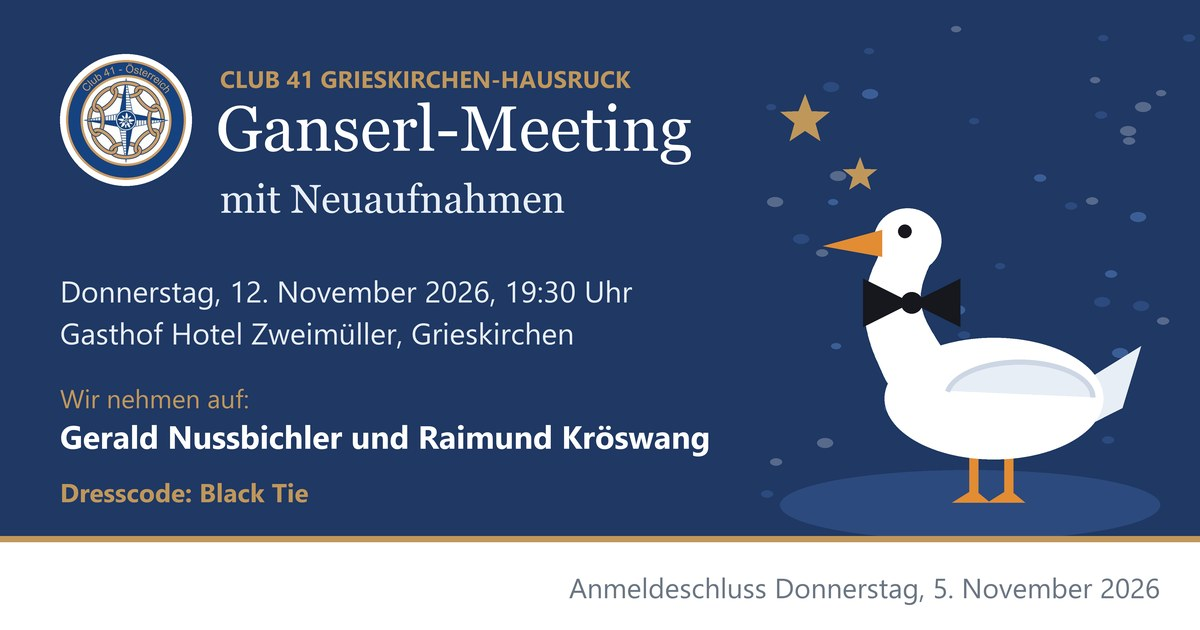
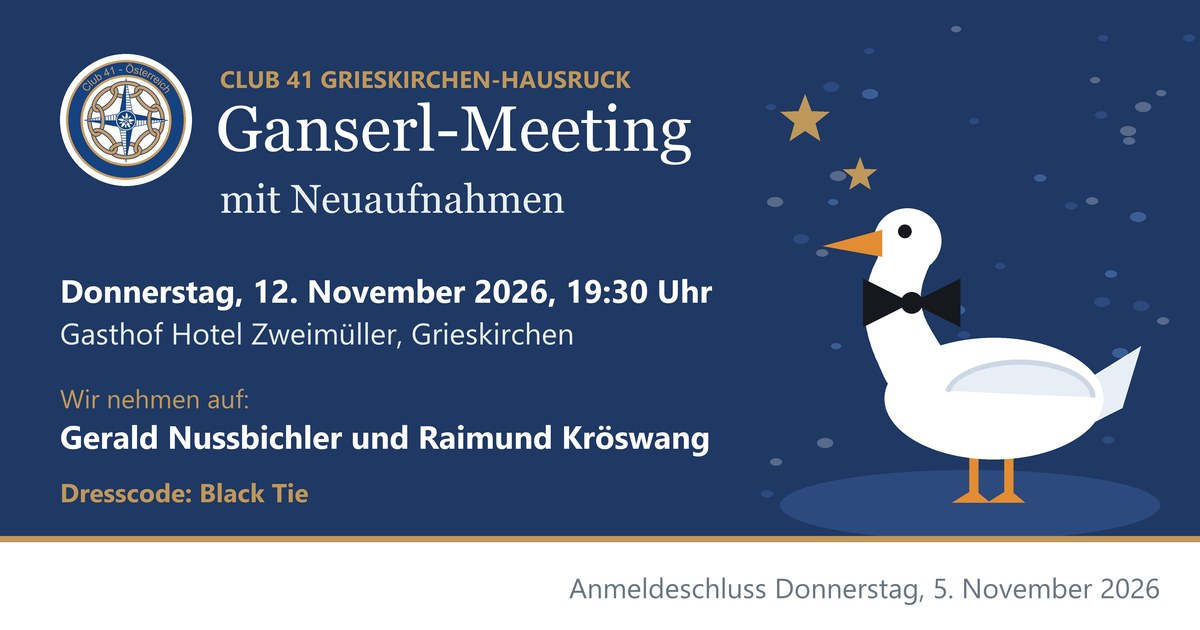
Meetingdatum fett in Bild und Text

Changed region(s): [[0.0308, 0.4222, 0.6167, 0.5127]]

diff --git a/index.html b/index.html
@@ -12,7 +12,7 @@
 <meta property="og:title" content="Ganserl-Meeting mit Neuaufnahmen · Club 41">
 <meta property="og:description" content="Dein persönlicher Anmeldelink für das Ganserl-Meeting am 12. November 2026. Anmeldeschluss 5. November 2026.">
 <meta property="og:url" content="https://hanspeter-meissl.github.io/c41-meetings/">
-<meta property="og:image" content="https://hanspeter-meissl.github.io/c41-meetings/bilder/vorschau.jpg?v=3">
+<meta property="og:image" content="https://hanspeter-meissl.github.io/c41-meetings/bilder/vorschau.jpg?v=4">
 <meta property="og:image:width" content="1200">
 <meta property="og:image:height" content="630">
 <meta property="og:image:alt" content="Ganserl-Meeting mit Neuaufnahmen, 12. November 2026">
@@ -89,8 +89,8 @@
   <div id="einleitung">
   <!-- Auf der Seite das Bild ohne „Jetzt anmelden“, die Auswahl steht direkt darunter. vorschau.jpg mit dem
        Knopf ist nur für die WhatsApp-Vorschau (og:image). -->
-  <img class="titelbild" src="bilder/seite.jpg?v=2" alt="Ganserl-Meeting mit Neuaufnahmen, 12. November 2026">
-  <p>Am Donnerstag, 12. November 2026, um 19:30 Uhr treffen wir uns im Gasthof Hotel Zweimüller in Grieskirchen zum Ganserl-Meeting. An diesem Abend nehmen wir Gerald Nussbichler und Raimund Kröswang in den Club auf.</p>
+  <img class="titelbild" src="bilder/seite.jpg?v=3" alt="Ganserl-Meeting mit Neuaufnahmen, 12. November 2026">
+  <p>Am <b>Donnerstag, 12. November 2026, um 19:30 Uhr</b> treffen wir uns im Gasthof Hotel Zweimüller in Grieskirchen zum Ganserl-Meeting. An diesem Abend nehmen wir Gerald Nussbichler und Raimund Kröswang in den Club auf.</p>
 
   <div class="regel">
     <p><b>Dresscode: Black Tie.</b></p>
